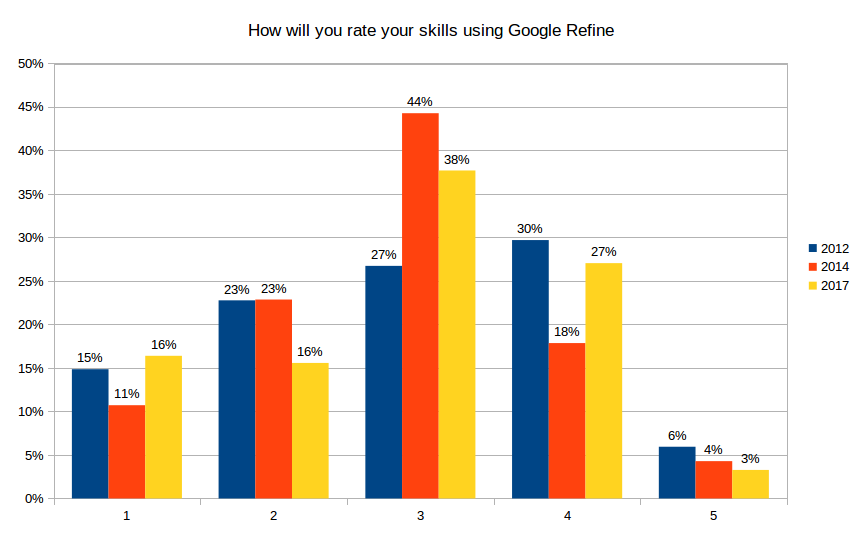
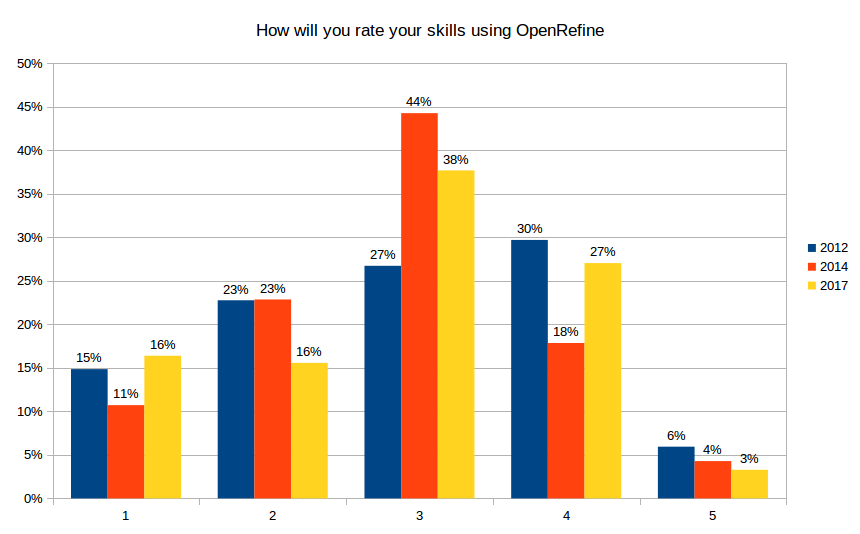
2018 survey results, fix broken images

diff --git a/_posts/2018-07-16- 2018-survey-results.md b/_posts/2018-07-16- 2018-survey-results.md
@@ -55,7 +55,7 @@ The majority of the respondents use OpenRefine to normalize data (80%) and trans
 
 <a href="https://raw.github.com/OpenRefine/openrefine.github.com/master/images/2018survey/4.png"><img src="https://raw.githubusercontent.com/OpenRefine/openrefine.github.com/master/images/2018survey/4.png" class="inset" /></a>
 
-Note: Respondant can select multiple answer.
+Note: Respondant can select multiple answer. Click on the image to enlarge it. 
 
 ## Do you use plugin or extension?
 
@@ -63,7 +63,7 @@ Note: Respondant can select multiple answer.
 
 <a href="https://raw.github.com/OpenRefine/openrefine.github.com/master/images/2018survey/5.png"><img src="https://raw.githubusercontent.com/OpenRefine/openrefine.github.com/master/images/2018survey/5.png" class="inset" /></a>
 
-Note: Respondent can select multiple answers. We consolidated blank answer with I don't use plugin or extension. 
+Note: Respondent can select multiple answers. We consolidated blank answer with I don't use plugin or extension. Click on the image to enlarge it. 
 
 ## Do you use a reconciliation service?
 
@@ -71,7 +71,7 @@ The two top services used are Wikidata and reconcile-csv. 30.33% of the responde
 
 <a href="https://raw.github.com/OpenRefine/openrefine.github.com/master/images/2018survey/6.png"><img src="https://raw.githubusercontent.com/OpenRefine/openrefine.github.com/master/images/2018survey/6.png" class="inset" /></a>
 
-Note: Respondent can select multiple answers.
+Note: Respondent can select multiple answers. Click on the image to enlarge it. 
 
 ## Perception of Refine: 
 
@@ -85,7 +85,8 @@ The following word clouds are more eye-pleasing than an in-depth analysis.
 
 Excel, R, and python remain the mains alternative to OpenRefine. Since 2014, we can notice the emergence of other self-service data preparation tools like Trifacta and Talend Data Preparation. 
 
-<a href="https://raw.github.com/OpenRefine/openrefine.github.com/master/images/2018survey/alternatives.png"><img src="https://raw.githubusercontent.com/OpenRefine/openrefine.github.com/master/images/2018survey/alternatives.png" class="inset" /></a>
+<a href="https://raw.github.com/OpenRefine/openrefine.github.com/master/images/2018survey/alternative.png"><img src="https://raw.githubusercontent.com/OpenRefine/openrefine.github.com/master/images/2018survey/alternative.png" class="inset" /></a>
+
 
 ### Word used to describe OpenRefine
 
